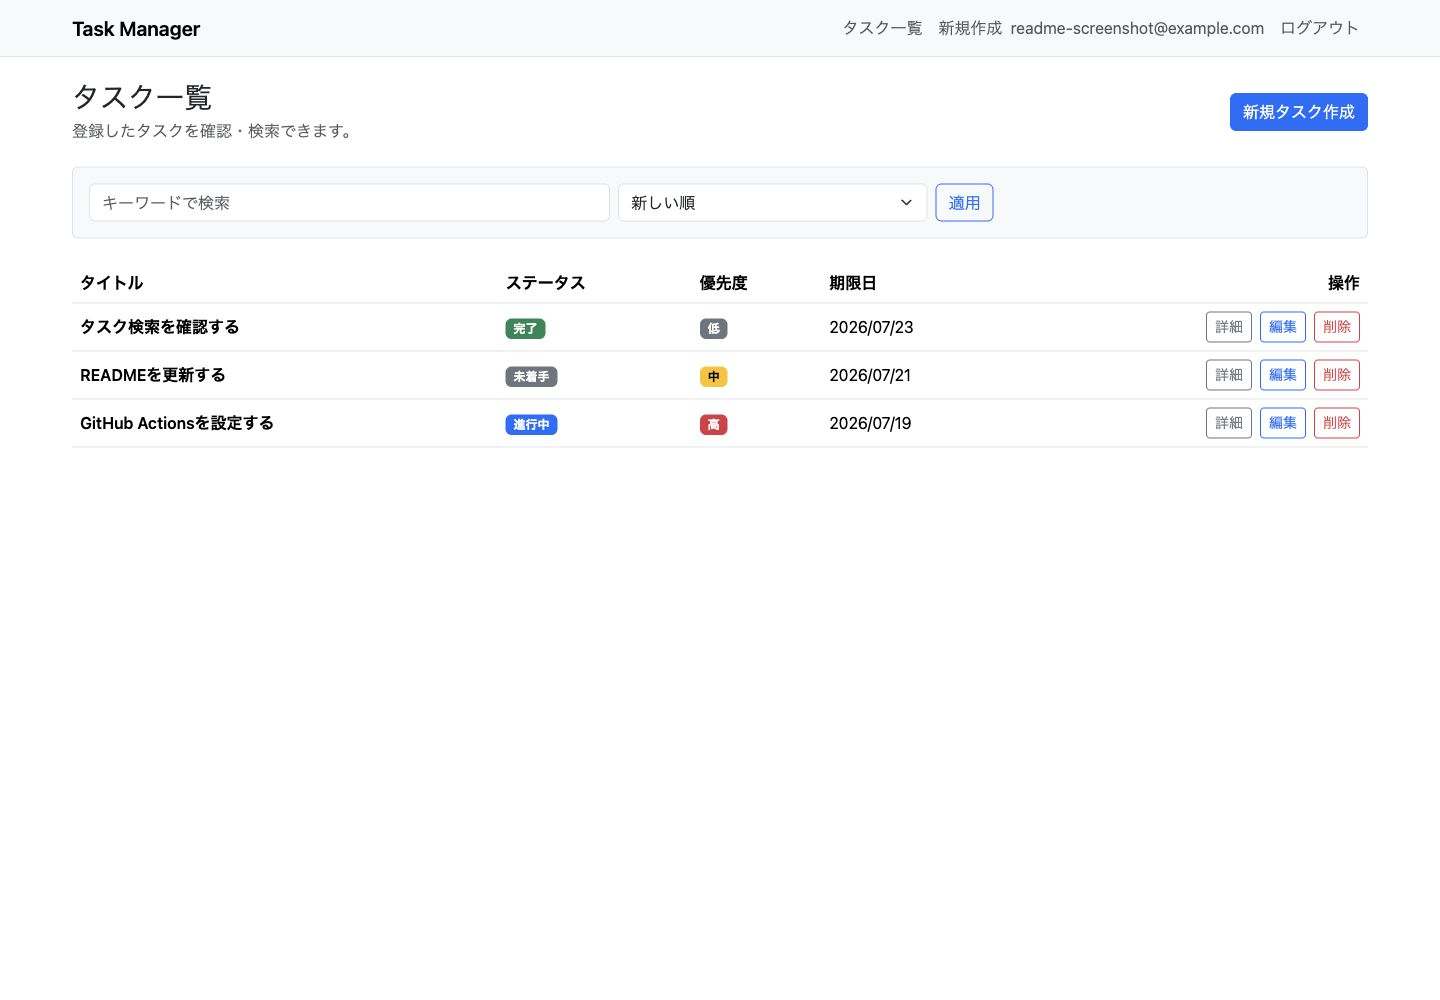
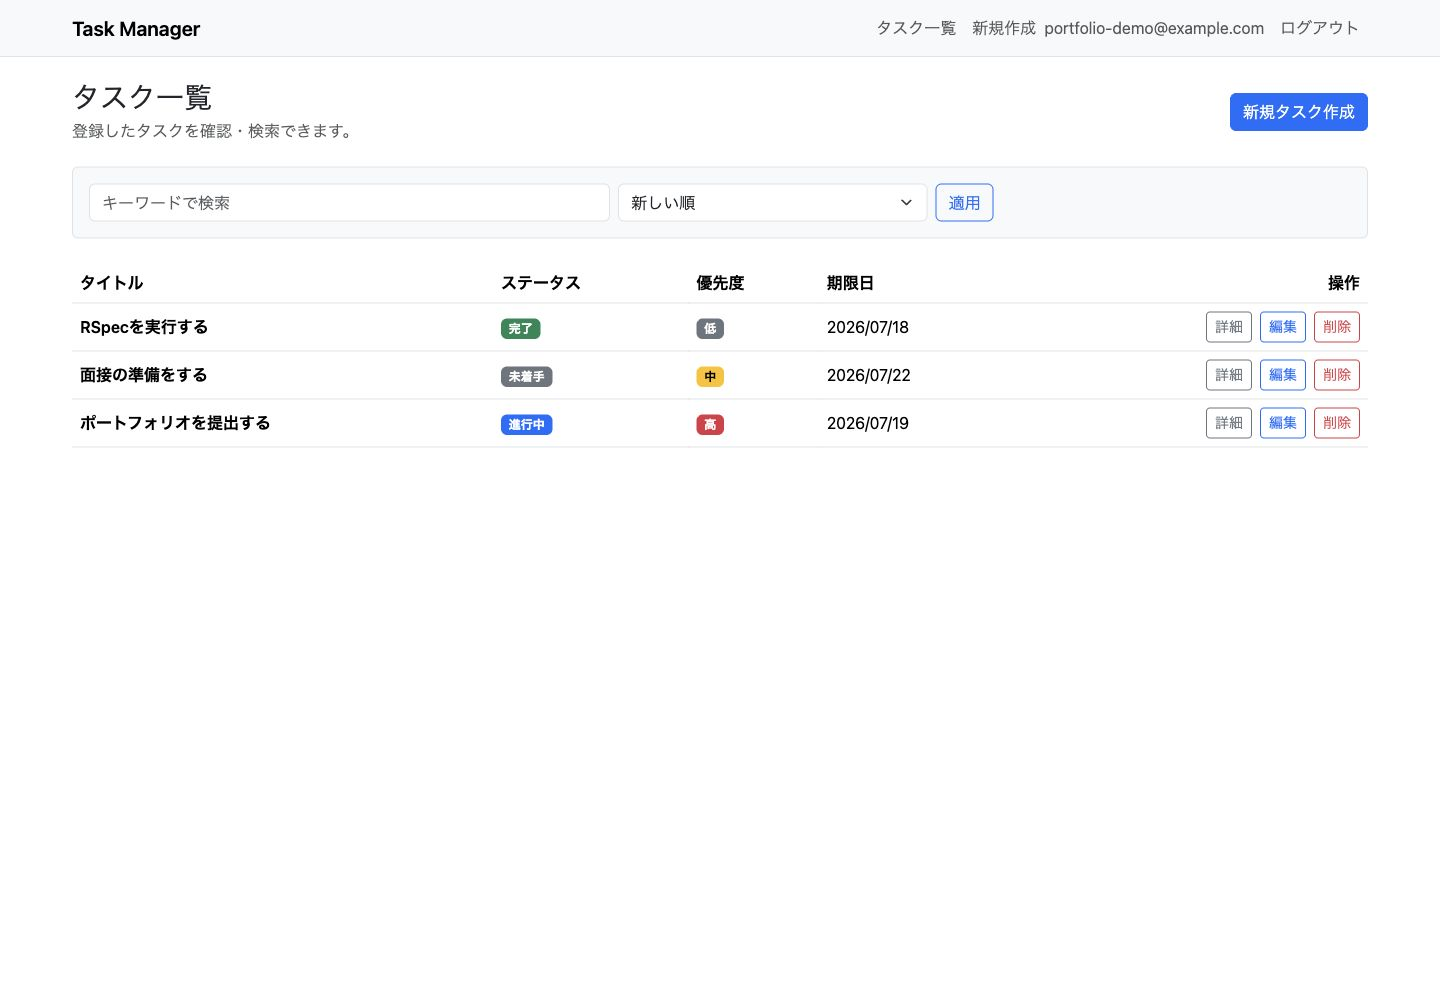
キャプチャ追加

diff --git a/README.md b/README.md
@@ -16,15 +16,28 @@
 複数のタスクを「何から着手するか」「いつまでに終えるか」という観点で整理できるアプリを目指して制作しました。
 単純なCRUDにとどまらず、認証、検索、ソート、外部API、テスト、CI、Docker環境まで段階的に実装し、Railsアプリ開発の一連の流れを学ぶことを目的としています。
 
-## 公開URL
+## 操作デモ
 
-現在デプロイ準備中です。ローカル環境では、後述の手順で起動できます。
+公開URLを開かなくても主要な操作を確認できるよう、実際のアプリ画面をGIFにまとめています。
+タスクの一覧表示、新規登録、登録結果、期限日の天気予報表示までを確認できます。
+
+![タスク登録から天気予報表示までの操作デモ](docs/images/task-demo.gif)
+
+アプリケーションは、後述の[セットアップ手順](#セットアップ)を使ってローカル環境でも動作確認できます。
 
 ## 画面イメージ
 
 ### タスク一覧
 
 ![タスク一覧画面](docs/images/task-list.jpg)
+
+### タスク登録
+
+![タスク登録画面](docs/images/task-form.jpg)
+
+### タスク詳細・期限日の天気予報
+
+![タスク詳細と天気予報画面](docs/images/task-detail-weather.jpg)
 
 ## 主な機能
 
@@ -202,7 +215,6 @@ bundle exec rspec spec/requests/tasks_spec.rb
 
 ## 今後の改善予定
 
-- 本番環境へのデプロイとデモアカウントの用意
 - ユーザーが天気予報の対象地域を選べる機能
 - 天気予報レスポンスのキャッシュによるAPI呼び出し回数の削減
 - システムスペックによるブラウザ操作のテスト